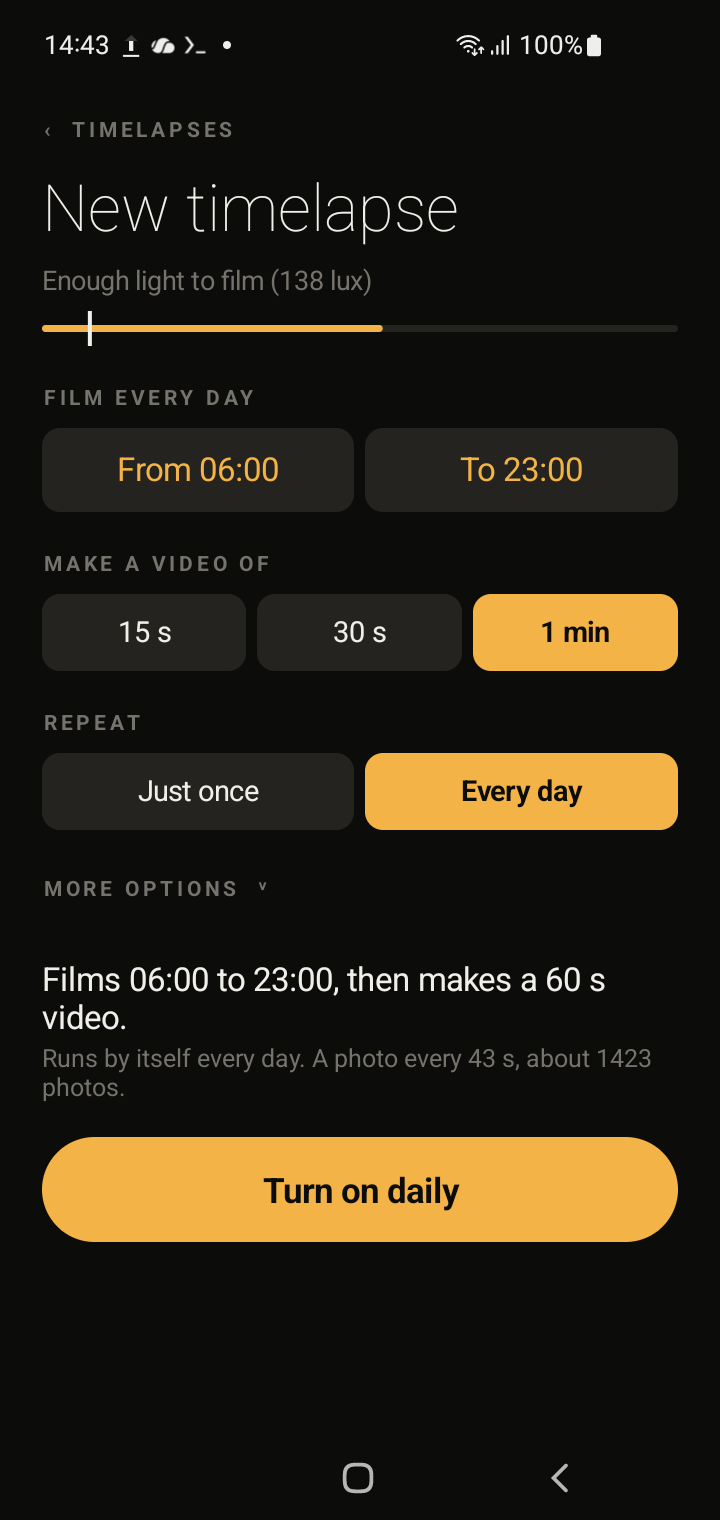
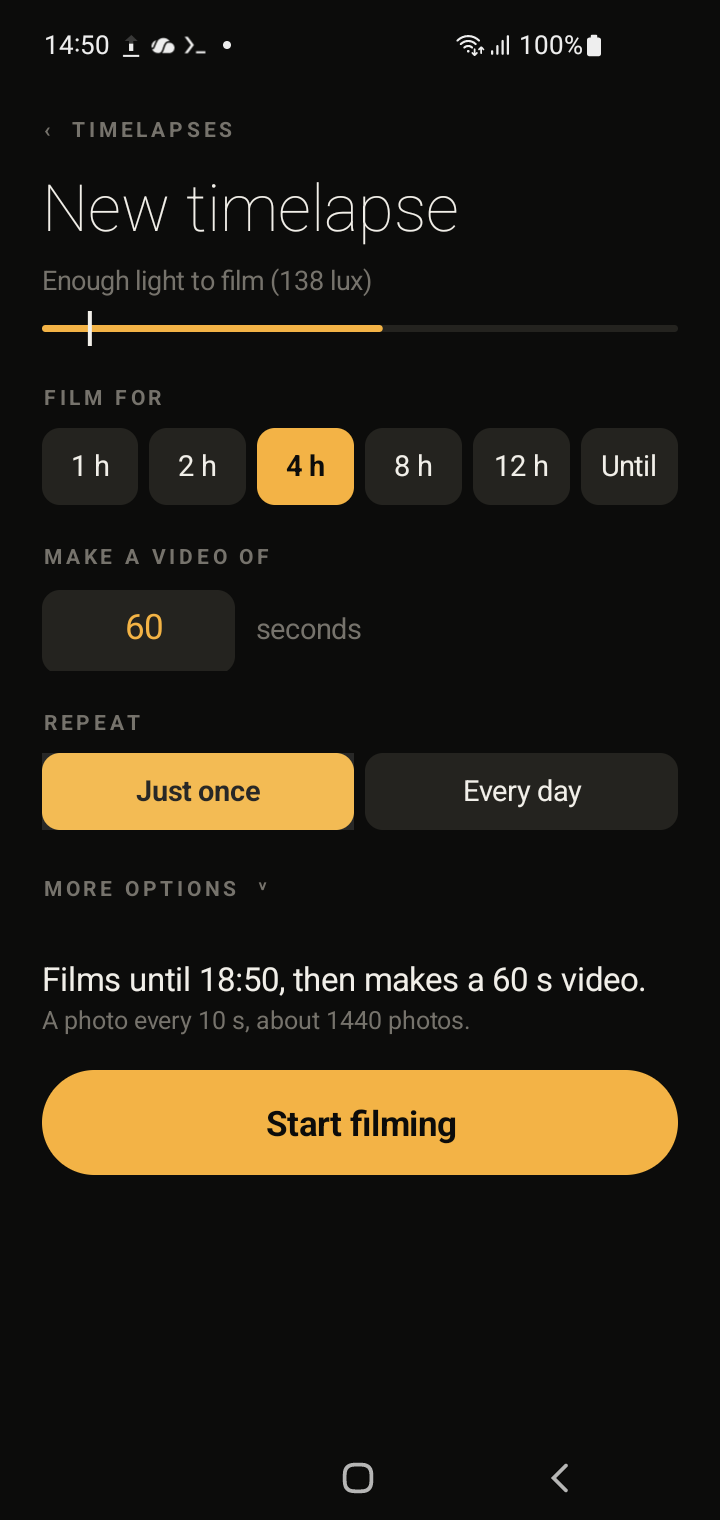
Video length: any number of seconds, default 1 min, last value used is remembered (app and web); new README screenshot

diff --git a/app/src/main/assets/index.html b/app/src/main/assets/index.html
@@ -24,6 +24,8 @@ h2{font-weight:300;font-size:30px;margin:0}
 .chip.on{background:var(--amber);color:var(--bg);font-weight:700}
 .chip:active{transform:scale(.97)}
 input[type=time]{background:var(--line);color:var(--amber);border:0;border-radius:10px;padding:11px 12px;font:inherit;width:100%}
+.vid{display:flex;align-items:center;gap:12px;margin-top:10px}
+.vid input{width:110px;background:var(--line);color:var(--amber);border:0;border-radius:10px;padding:11px 12px;font:inherit;font-size:18px;text-align:center;-moz-appearance:textfield}
 .two{display:flex;gap:6px}.two>*{flex:1}
 .more{margin-top:22px}.more summary{cursor:pointer;list-style:none;display:inline-block;padding:4px 0}.more summary::after{content:' \02C5';font-size:13px}.more[open] summary::after{content:' \02C4'}.more summary:active{opacity:.6}.more summary::-webkit-details-marker{display:none}
 .hint{font-size:13px;color:var(--dim);margin:8px 0 0}
@@ -85,7 +87,7 @@ input[type=range]{width:100%;accent-color:var(--amber);margin:14px 0 4px}
 <script>
 const $=s=>document.querySelector(s);
 let S=null,view='home',cur=null,tab='',frames=0,frameIdx=-1,more=false,sel=new Set(),
-    opt={mode:0,hours:4,video:30,bright:1,until:'18:00',from:'07:00',to:'19:00',keep:14,init:0};
+    opt={mode:0,hours:4,video:60,bright:1,until:'18:00',from:'07:00',to:'19:00',keep:14,init:0};
 const H=[1,2,4,8,12,0],p2=n=>String(n).padStart(2,'0');
 async function api(p,m){const r=await fetch(p,{method:m||'GET'});return r.json()}
 const dur=ms=>{const m=Math.floor(ms/60000);return m<1?'under 1 min':m<60?m+' min':Math.floor(m/60)+' h '+m%60+' min'};
@@ -95,6 +97,7 @@ function endAt(){if(opt.hours>0)return Date.now()+opt.hours*3600000;const[a,b]=o
 const ivFor=sec=>Math.max(3,Math.min(300,Math.round(sec/(opt.video*24))));
 function chips(key,vals,labels){return '<div class="chips">'+vals.map((v,i)=>`<span class="chip ${opt[key]===v?'on':''}" onclick="setOpt('${key}',${v})">${labels[i]}</span>`).join('')+'</div>'}
 function setOpt(k,v){opt[k]=v;drawSide(1)}
+function setVid(v){const n=parseInt(v);if(!(n>=5))return;opt.video=Math.min(3600,n);drawSide(1)}
 
 /* ---------- left: new timelapse ---------- */
 function side(){
@@ -116,7 +119,7 @@ function side(){
     const d=daily?'disabled':'';
     h+=`<div class="grp"><div class="caps">Film every day</div><div class="chips two"><input type="time" value="${opt.from}" ${d} onchange="opt.from=this.value;drawSide(1)"><input type="time" value="${opt.to}" ${d} onchange="opt.to=this.value;drawSide(1)"></div></div>`;
   }
-  h+='<div class="grp"><div class="caps">Make a video of</div>'+chips('video',[15,30,60],['15 s','30 s','1 min'])+'</div>';
+  h+=`<div class="grp"><div class="caps">Make a video of</div><div class="vid"><input id="vid" type="number" min="5" max="3600" value="${opt.video}" oninput="setVid(this.value)"><span class="dim">seconds</span></div></div>`;
   h+='<div class="grp"><div class="caps">Repeat</div>'+chips('mode',[0,1],['Just once','Every day'])+'</div>';
   h+=`<details class="more" ${more?'open':''} ontoggle="more=this.open"><summary class="caps">More options</summary>`;
   h+='<div class="grp"><div class="caps">Take photos</div>'+chips('bright',[1,0],['Only when bright','Always'])+`<p class="hint">${opt.bright?'Skips photos when it is too dark to see anything. A dim room lit by a screen counts as bright enough.':'Takes a photo every time, even in the dark.'}</p></div>`;
@@ -124,7 +127,7 @@ function side(){
   h+='</details>';
   if(!dm){
     const e=endAt(),sec=(e-Date.now())/1000,iv=ivFor(sec),n=Math.floor(sec/iv);
-    h+=`<div class="sum">Films until ${clock(e)}, then makes a ${Math.max(1,Math.round(n/24))} s video.<small>A photo every ${iv} s, about ${n} photos.</small></div><button class="go" onclick="startRec()">Start filming</button>`;
+    h+=`<div class="sum">Films until ${clock(e)}, then makes a ${iv>3&&iv<300?opt.video:Math.max(1,Math.round(n/24))} s video.<small>A photo every ${iv} s, about ${n} photos.</small></div><button class="go" onclick="startRec()">Start filming</button>`;
   }else{
     const[fa,fb]=opt.from.split(':').map(Number),[ta,tb]=opt.to.split(':').map(Number);
     let m=((ta*60+tb)-(fa*60+fb)+1440)%1440;if(!m)m=1440;
@@ -199,7 +202,9 @@ let lastSide='',lastMain='';
 function drawSide(force){
   if(!S)return;
   const a=document.activeElement;if(a&&a.tagName==='INPUT'&&!force&&$('#side').contains(a))return;
+  const typing=a&&a.id==='vid';
   const html=side();if(html===lastSide&&!force)return;lastSide=html;$('#side').innerHTML=html;
+  if(typing){const v=$('#vid');v.focus();v.setSelectionRange(v.value.length,v.value.length)}
 }
 function drawMain(force){
   if(!S)return;

diff --git a/app/src/main/java/com/faka/timelapse/RecordActivity.java b/app/src/main/java/com/faka/timelapse/RecordActivity.java
@@ -20,7 +20,6 @@ import java.util.function.IntConsumer;
 /** Live screen: choose how long (once, or every day), press the shutter. The photo interval is worked out from that. */
 public class RecordActivity extends Activity {
     static final int[] HOURS = {1, 2, 4, 8, 12, 0};      // 0 = until a clock time
-    static final int[] VIDEO = {15, 30, 60};            // seconds of finished video
     static final int[] KEEP = {7, 14, 30};              // days to keep daily timelapses
 
     SharedPreferences sp;
@@ -29,9 +28,11 @@ public class RecordActivity extends Activity {
     Button main;
     LinearLayout options, onceBox, dailyBox, keepBox, moreBox;
     boolean moreOpen;
-    Chips lenChips, vidChips, whenChips, modeChips, keepChips;
+    Chips lenChips, whenChips, modeChips, keepChips;
     TextView untilChip;
-    int modeIdx, hoursIdx, videoIdx, keepIdx, untilH, untilM, sh, sm, eh, em;
+    EditText vidEdit;
+    int videoSec = 60;   // seconds of finished video; any length, the last one used is kept
+    int modeIdx, hoursIdx, keepIdx, untilH, untilM, sh, sm, eh, em;
     boolean auto, running, wasRunning;
     final Handler ui = new Handler(Looper.getMainLooper());
     final Runnable tick = new Runnable() { @Override public void run() { refresh(); ui.postDelayed(this, 1000); } };
@@ -92,7 +93,7 @@ public class RecordActivity extends Activity {
         hoursIdx = sp.getInt("hoursIdx", 2);
         untilH = sp.getInt("untilH", 18); untilM = sp.getInt("untilM", 0);
         sh = Daily.sh(this); sm = Daily.sm(this); eh = Daily.eh(this); em = Daily.em(this);
-        videoIdx = Math.max(0, Arrays.binarySearch(VIDEO, Daily.video(this)));
+        videoSec = Daily.video(this);
         keepIdx = Math.max(0, Arrays.binarySearch(KEEP, Daily.keep(this)));
         auto = Daily.auto(this);
 
@@ -144,8 +145,28 @@ public class RecordActivity extends Activity {
         dailyBox.addView(group("FILM EVERY DAY", tr));
         options.addView(dailyBox);
 
-        vidChips = new Chips(new String[]{"15 s", "30 s", "1 min"}, videoIdx, i -> { videoIdx = i; save(); refresh(); });
-        options.addView(group("MAKE A VIDEO OF", vidChips.row));
+        vidEdit = new EditText(this);
+        vidEdit.setInputType(android.text.InputType.TYPE_CLASS_NUMBER);
+        vidEdit.setImeOptions(android.view.inputmethod.EditorInfo.IME_ACTION_DONE);
+        vidEdit.setSingleLine(true); vidEdit.setText(String.valueOf(videoSec));
+        vidEdit.setTextSize(18); vidEdit.setTextColor(Ui.AMBER); vidEdit.setGravity(Gravity.CENTER);
+        vidEdit.setBackground(Ui.pill(this, Ui.LINE, 10));
+        vidEdit.addTextChangedListener(new android.text.TextWatcher() {
+            public void beforeTextChanged(CharSequence s, int a, int b, int c) {}
+            public void onTextChanged(CharSequence s, int a, int b, int c) {}
+            public void afterTextChanged(android.text.Editable s) {
+                try { videoSec = Math.max(5, Math.min(3600, Integer.parseInt(s.toString()))); } catch (NumberFormatException e) { return; }
+                save(); refresh();
+            }
+        });
+        TextView unit = Ui.text(this, "seconds", 15, Ui.DIM);
+        unit.setGravity(Gravity.CENTER_VERTICAL);
+        LinearLayout vrow = new LinearLayout(this);
+        vrow.addView(vidEdit, new LinearLayout.LayoutParams(Ui.dp(this, 110), Ui.dp(this, 48)));
+        LinearLayout.LayoutParams ul = new LinearLayout.LayoutParams(-2, Ui.dp(this, 48));
+        ul.setMarginStart(Ui.dp(this, 12));
+        vrow.addView(unit, ul);
+        options.addView(group("MAKE A VIDEO OF", vrow));
         modeChips = new Chips(new String[]{"Just once", "Every day"}, modeIdx, i -> { modeIdx = i; save(); refresh(); });
         options.addView(group("REPEAT", modeChips.row));
 
@@ -215,7 +236,7 @@ public class RecordActivity extends Activity {
 
     void save() {
         sp.edit().putInt("modeIdx", modeIdx).putInt("hoursIdx", hoursIdx).putInt("untilH", untilH).putInt("untilM", untilM).apply();
-        Daily.save(this, sh, sm, eh, em, VIDEO[videoIdx], auto, KEEP[keepIdx]);
+        Daily.save(this, sh, sm, eh, em, videoSec, auto, KEEP[keepIdx]);
     }
 
     interface TimeSet { void set(int h, int m); }
@@ -229,7 +250,7 @@ public class RecordActivity extends Activity {
         return Plan.nextClock(untilH, untilM);
     }
 
-    int intervalSec(long durMs) { return Plan.intervalSec(durMs, VIDEO[videoIdx]); }
+    int intervalSec(long durMs) { return Plan.intervalSec(durMs, videoSec); }
 
     void start(long endAt, int interval) {
         save();
@@ -320,14 +341,14 @@ public class RecordActivity extends Activity {
             long dur = ((eh * 60 + em) - (sh * 60 + sm) + 1440) % 1440 * 60000L;
             if (dur == 0) dur = 86400000L;
             int iv = intervalSec(dur);
-            summary.setText("Films " + hm(sh, sm) + " to " + hm(eh, em) + ", then makes a " + VIDEO[videoIdx] + " s video.");
+            summary.setText("Films " + hm(sh, sm) + " to " + hm(eh, em) + ", then makes a " + videoSec + " s video.");
             summary2.setText("Runs by itself every day. A photo every " + iv + " s, about " + (dur / 1000 / iv) + " photos.");
             shots.setText(daily ? "Nothing to do. Videos appear in your list." : "");
         } else {
             long end = endAtMs(), dur = end - System.currentTimeMillis();
             int iv = intervalSec(dur);
             long photos = dur / 1000 / iv;
-            summary.setText("Films until " + clock(end) + ", then makes a " + Math.max(1, photos / Plan.FPS) + " s video.");
+            summary.setText("Films until " + clock(end) + ", then makes a " + (iv > 3 && iv < 300 ? videoSec : Math.max(1, photos / Plan.FPS)) + " s video.");
             summary2.setText("A photo every " + iv + " s, about " + photos + " photos.");
             shots.setText("");
         }

diff --git a/app/src/main/java/com/faka/timelapse/WebService.java b/app/src/main/java/com/faka/timelapse/WebService.java
@@ -315,7 +315,8 @@ public class WebService extends Service {
             }
             case "/api/start": {
                 if (!post) break;
-                int videoSec = Integer.parseInt(q.getOrDefault("video", "30"));
+                int videoSec = Math.max(5, Math.min(3600, Integer.parseInt(q.getOrDefault("video", "60"))));
+                Daily.setVideo(this, videoSec);
                 float hours = Float.parseFloat(q.getOrDefault("hours", "4"));
                 long end = hours > 0 ? System.currentTimeMillis() + (long) (hours * 3600000L)
                         : Plan.nextClock(Integer.parseInt(q.getOrDefault("h", "18")), Integer.parseInt(q.getOrDefault("m", "0")));
@@ -331,7 +332,7 @@ public class WebService extends Service {
                 if (!post) break;
                 int sh = Integer.parseInt(q.getOrDefault("sh", "7")), sm = Integer.parseInt(q.getOrDefault("sm", "0"));
                 int eh = Integer.parseInt(q.getOrDefault("eh", "19")), em = Integer.parseInt(q.getOrDefault("em", "0"));
-                Daily.save(this, sh, sm, eh, em, Integer.parseInt(q.getOrDefault("video", "30")),
+                Daily.save(this, sh, sm, eh, em, Math.max(5, Math.min(3600, Integer.parseInt(q.getOrDefault("video", "60")))),
                         q.getOrDefault("bright", "1").equals("1"), Integer.parseInt(q.getOrDefault("keep", "14")));
                 if (q.getOrDefault("on", "0").equals("1")) Daily.enable(this); else Daily.disable(this);
                 json(out, new JSONObject().put("ok", true));

diff --git a/app/src/main/java/com/faka/timelapse/Daily.java b/app/src/main/java/com/faka/timelapse/Daily.java
@@ -14,7 +14,9 @@ final class Daily {
     static int sm(Context c) { return sp(c).getInt("sm", 0); }
     static int eh(Context c) { return sp(c).getInt("eh", 19); }
     static int em(Context c) { return sp(c).getInt("em", 0); }
-    static int video(Context c) { return sp(c).getInt("video", 30); }
+    static int video(Context c) { return sp(c).getInt("video", 60); }
+    /** The last video length the user chose; it becomes the next default. */
+    static void setVideo(Context c, int sec) { sp(c).edit().putInt("video", Math.max(5, Math.min(3600, sec))).apply(); }
     static boolean auto(Context c) { return sp(c).getBoolean("auto", true); }
     static int keep(Context c) { return sp(c).getInt("keep", 14); }
 

diff --git a/README.md b/README.md
@@ -8,7 +8,7 @@ No account, no cloud, no ads. Everything stays on the phone. You can also contro
 
 ## What it does
 
-- **Two questions only.** Film for 1 to 12 hours (or until a clock time). Make a video of 15 s, 30 s or 1 min. The time between photos is calculated for you.
+- **Two questions only.** Film for 1 to 12 hours (or until a clock time). Make a video of any length in seconds (1 minute at first, then the last length you used). The time between photos is calculated for you.
 - **Works with the screen locked.** Runs start from an alarm, so the phone can sleep until it is time.
 - **Light-aware.** In "Only when bright" mode it skips photos that are too dark to see anything. A dim room lit by a laptop still counts as bright enough.
 - **Every day, by itself.** Set a start time, an end time and a video length. The phone films and builds the video each day, and deletes old ones after 7, 14 or 30 days.
